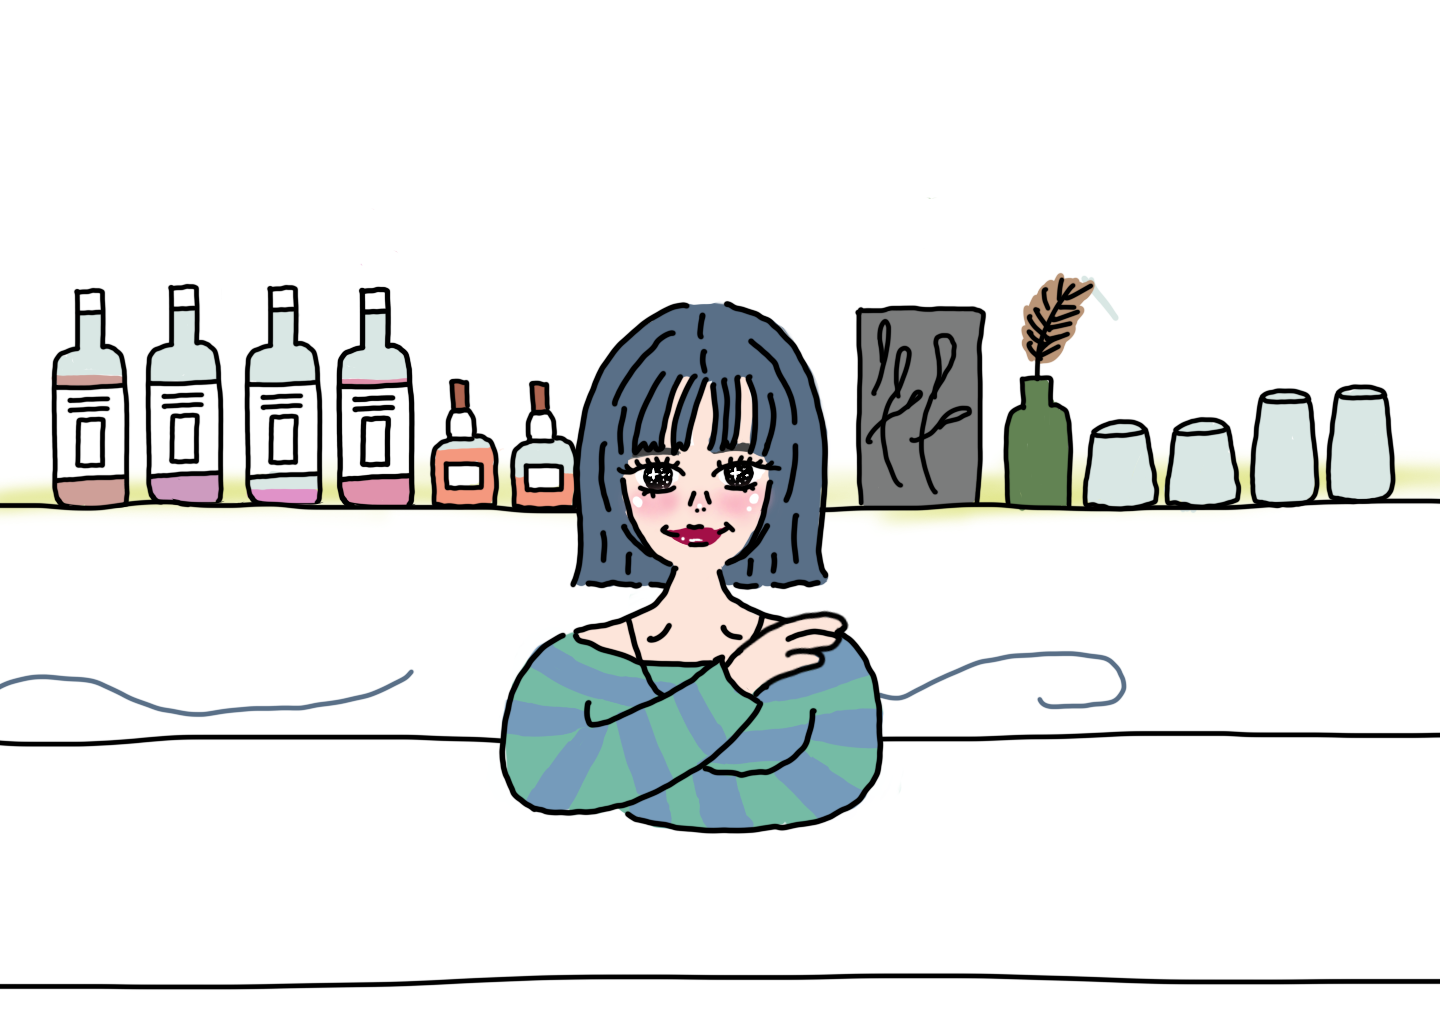
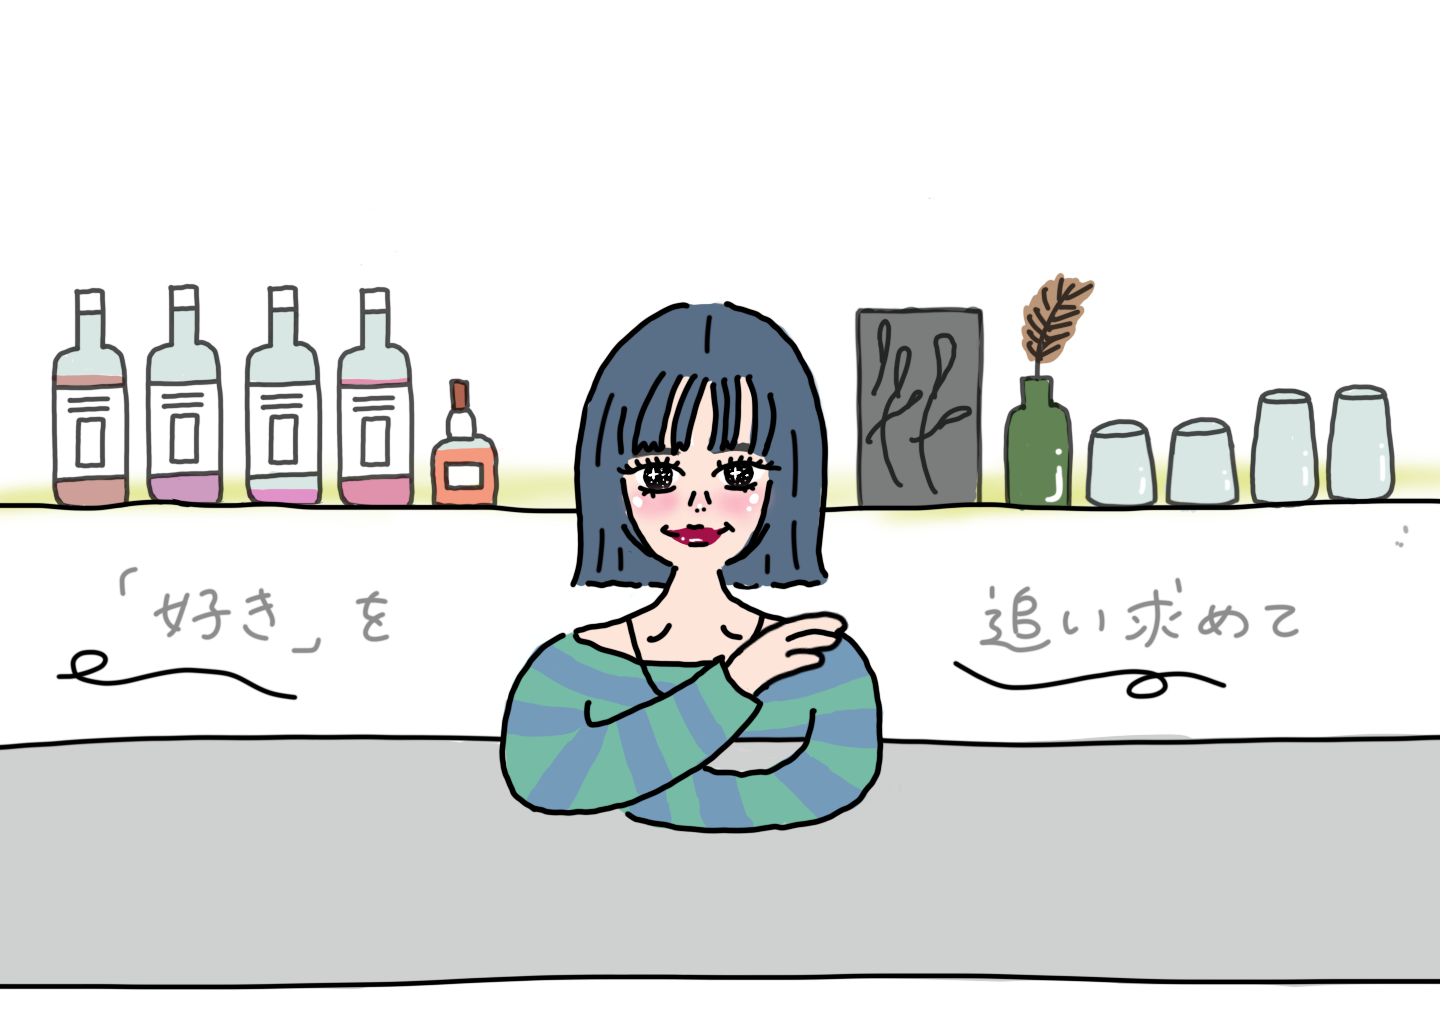
finish

diff --git a/chapter2.html b/chapter2.html
@@ -15,11 +15,6 @@
     <section class="chapter-top-visual">
         <div class="visual-container">
             <img src="images/chapter2.png" alt="Chapter 2 Main" class="main-visual-img">
-
-
-            <div class="chapter-number-badge">
-                chapter-2
-            </div>
         </div>
     </section>
 
@@ -58,7 +53,7 @@
                         </div>
 
                         <div class="response">
-                            ―んー確かにそう言う時期ですね。
+                            ―んー確かにそういう時期ですね。
                         </div>
 
                         <div class="answer">
@@ -66,7 +61,8 @@
                         </div>
 
                         <div class="response">
-                            ―いろんなタイミングが重なってここに行き着いたんですね。このカフェ030のコンセプト的なのはすでにオーナーのアイシェさんが？
+                            ―いろんなタイミングが重なってここに行き着いたんですね。
+                            <br>このカフェ030のコンセプト的なのはすでにオーナーのアイシェさんが？
                         </div>
 
                         <div class="answer">

diff --git a/chapter1.html b/chapter1.html
@@ -15,12 +15,6 @@
     <section class="chapter-top-visual">
         <div class="visual-container">
             <img src="images/chapter1.png" alt="Chapter 1 Main" class="main-visual-img">
-
-        
-
-            <div class="chapter-number-badge">
-                chapter-1
-            </div>
         </div>
     </section>
 
@@ -174,7 +168,7 @@
                         </div>
 
                         <div class="answer">
-                            大学の時なんかはほんとに服大好きで、コムデギャルソンとかトーがとかめちゃ服にお金かけてた気がする。ほら、これ私が大学の時の写真だけど、マルニのコートにトーガのパンツ、ギャルソンとこれもトーガのシャツとかね笑。
+                            大学の時なんかはほんとに服大好きで、コムデギャルソンとかトーガとかめちゃ服にお金かけてた気がする。ほら、これ私が大学の時の写真だけど、マルニのコートにトーガのパンツ、ギャルソンとこれもトーガのシャツとかね笑。
                         </div>
 
                         <div class="response">

diff --git a/chapter3.html b/chapter3.html
@@ -15,10 +15,6 @@
     <section class="chapter-top-visual">
         <div class="visual-container">
             <img src="images/chapter3.png" alt="Chapter 3 Main" class="main-visual-img">
-
-            <div class="chapter-number-badge">
-                chapter-3
-            </div>
         </div>
     </section>
 
@@ -163,7 +159,9 @@
                                 将来何したいか決まってないとかみんな言うけど、明確な人なんていないと思うよ。まあこれでいいやって言い方もアレだけど、とりあえず決めてそれでやってみる。それで良いと思う。若いうちは色んなものとか人に触れて、選択肢を増やしておくといいかもしれないね！
                             </div>
 
-
+                            <div class="summary-gif">
+                            <img src="images/kenken.gif" alt="Decoration">
+                        </div>
                         </section>
                 </div>
             </div>

diff --git a/index.html b/index.html
@@ -18,11 +18,6 @@
     <section class="top-page-section">
         <div class="sticky-wrapper">
             <img src="images/top-1.png" id="top-image" alt="Animation">
-
-            <h1 class="top-title">
-                <span class="top-text">「好き」を</span>
-                <span class="top-text right-text">追い求めて</span>
-            </h1>
         </div>
     </section>
 

diff --git a/styles.css b/styles.css
@@ -1005,5 +1005,3 @@ body {
 
 
 
-
-
